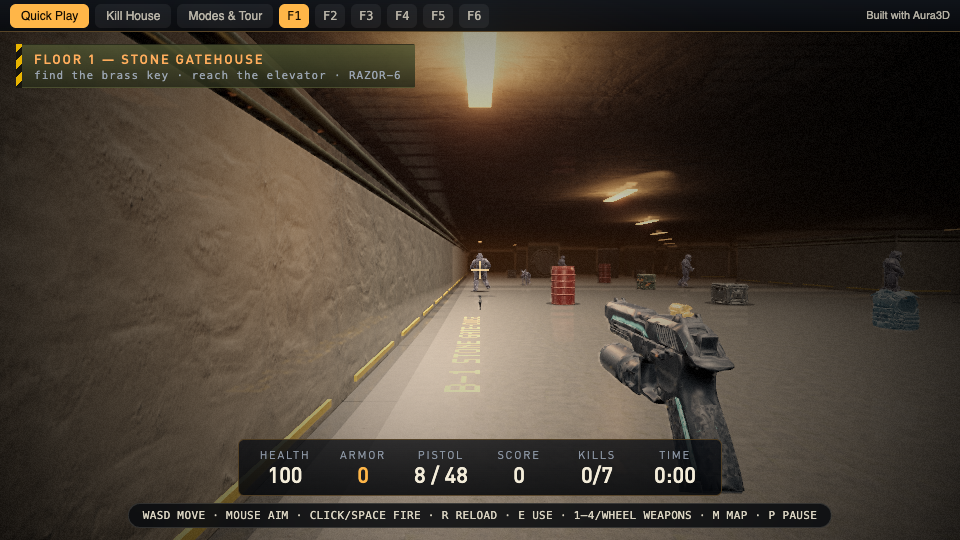
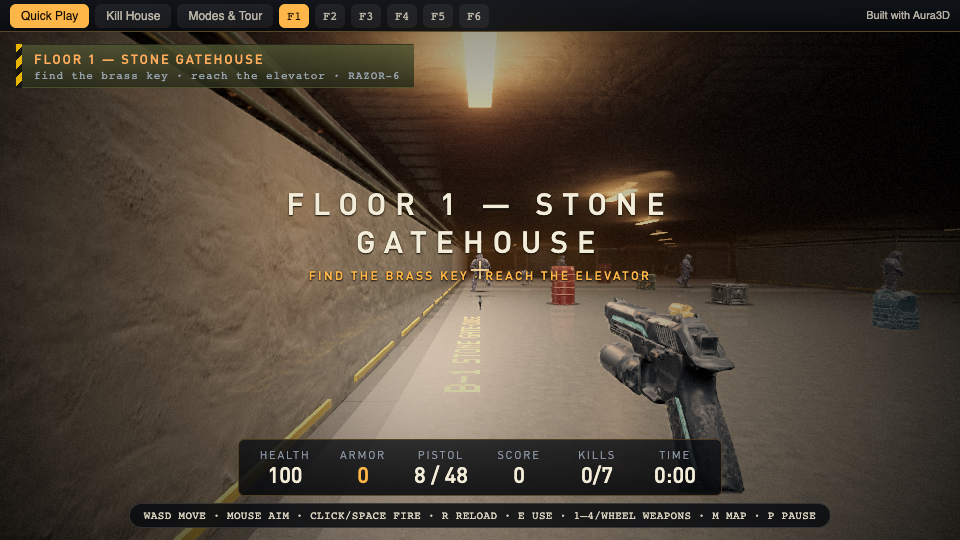
bunker-zero: recapture real before/after game frames (prior before.png was a directory listing)

diff --git a/docs/upgrade-5.0.0/bunker-zero.md b/docs/upgrade-5.0.0/bunker-zero.md
@@ -14,7 +14,7 @@ Shared (Wave 0)
 - [x] `package.json` version set to 5.0.1 (W-1, cosmetic, D6)
 - [x] `no-removed-5-0-apis` game check passes (W-2)
 - [ ] Baseline drift capture compared with the 4.7.10 frames of record, static bands only (W-3, parent-owned single ACR capture)
-- [ ] `environments.neutral`/`capture` exposure resolved (W-4): not applicable, the look uses the catalogue HDRI `hangar_interior` via `environments.hdri` (`src/main.ts:191`), never `environments.neutral`; real-GPU frame of the same view is unchanged (evidence/game-upgrades-503/bunker-zero/{before,after}.png)
+- [ ] `environments.neutral`/`capture` exposure resolved (W-4): not applicable, the look uses the catalogue HDRI `hangar_interior` via `environments.hdri` (`src/main.ts:191`), never `environments.neutral`; real-GPU frame of the same view is unchanged (the only difference is the transient floor-title banner, a settle-timing artifact) (evidence/game-upgrades-503/bunker-zero/{before,after}.png)
 - [ ] Catalog digests refreshed after any source edit: `node tools/agent-examples/refresh-catalog-digests.mjs` (W-5)
 
 Adoption (5.0 adoption row)
@@ -28,4 +28,4 @@ Verification
 
 - [ ] GC (lighting, luma-band), UT, CAP
 - [ ] `node tools/game-checks/run.mjs bunker-zero` clean
-- [x] Before/after frames attached: evidence/game-upgrades-503/bunker-zero/{before,after}.png (real GPU Apple M4 Max via headless Chrome CDP, 960x540, `?floor=1&autostart=1`, 16 s; identical, no source change shipped)
+- [x] Before/after frames attached: evidence/game-upgrades-503/bunker-zero/{before,after}.png (960x540, `?floor=1&autostart=1`, 12 s settle, REA `capture_browser_scenario`, headless Chrome launch; before = origin/main build, after = this branch build; same view, only the transient "FLOOR 1 - STONE GATEHOUSE" title banner differs (settle timing); no source change shipped)
